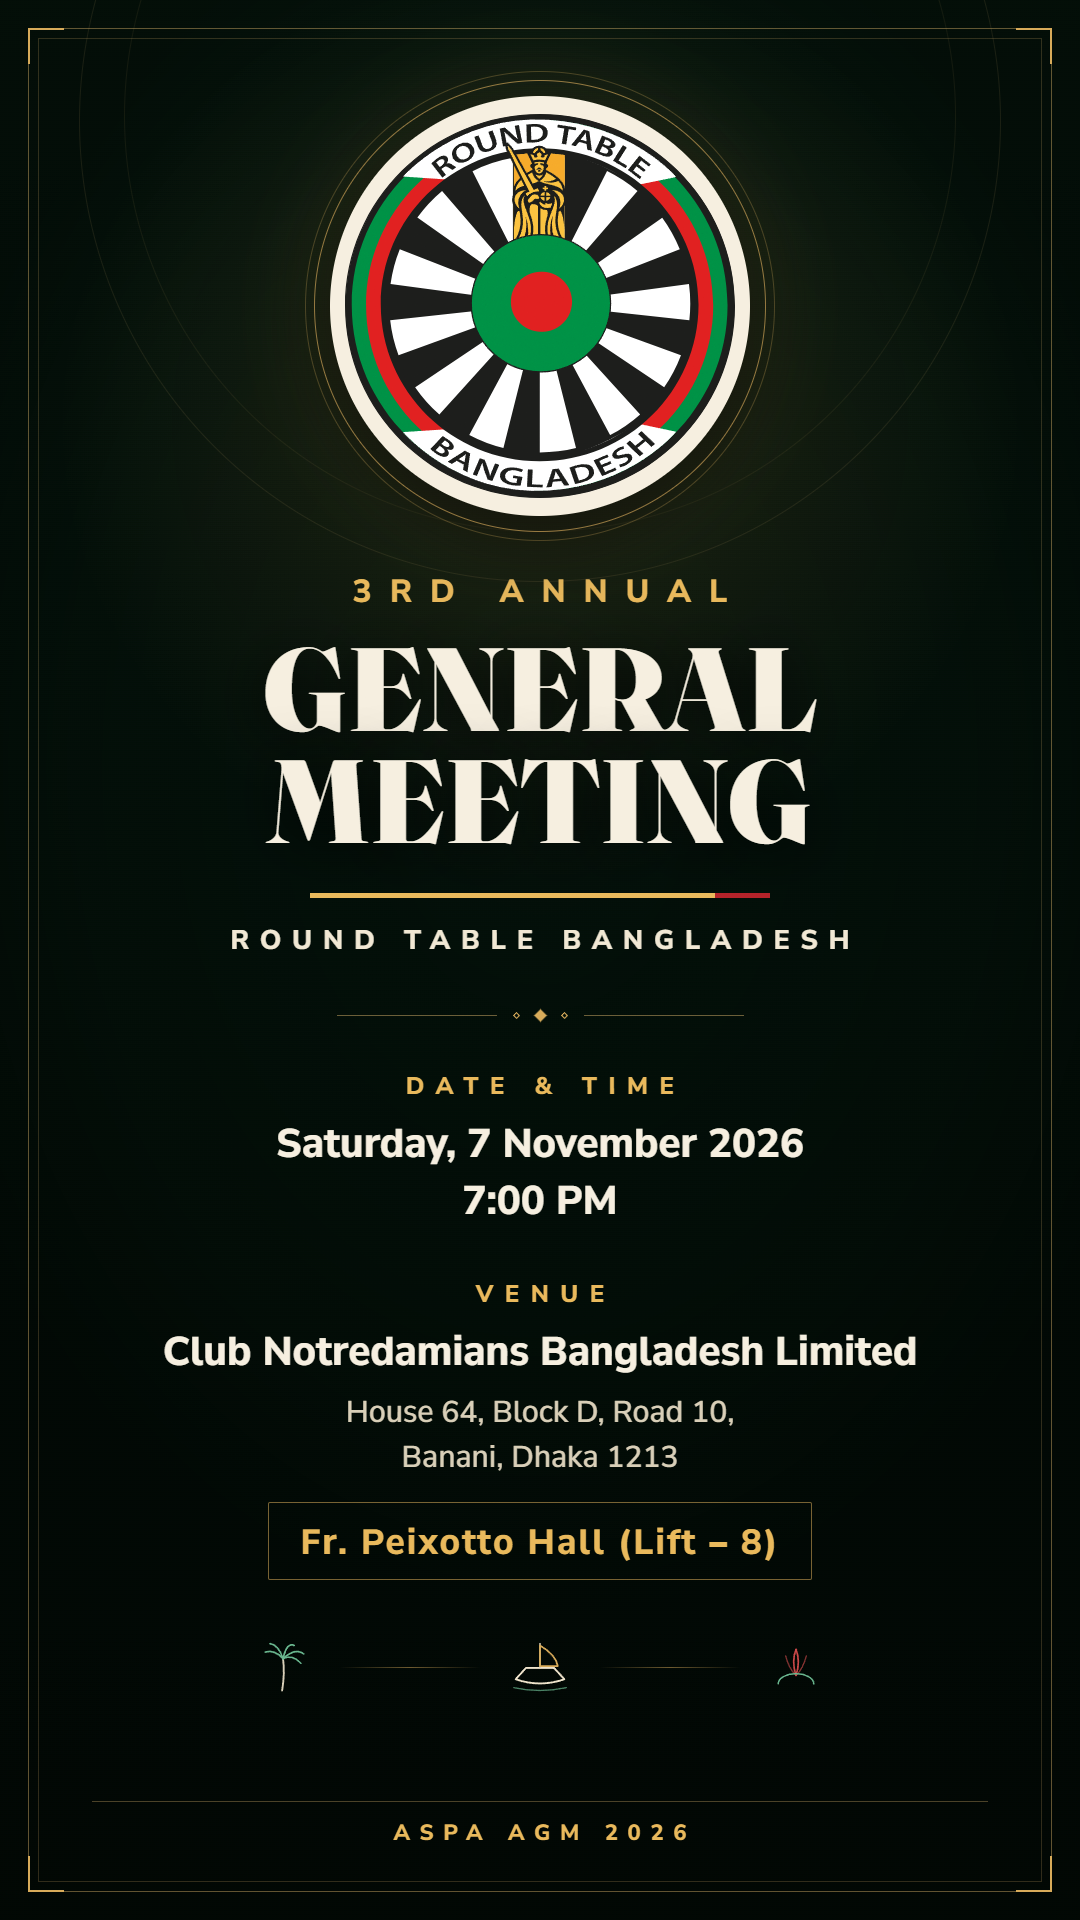
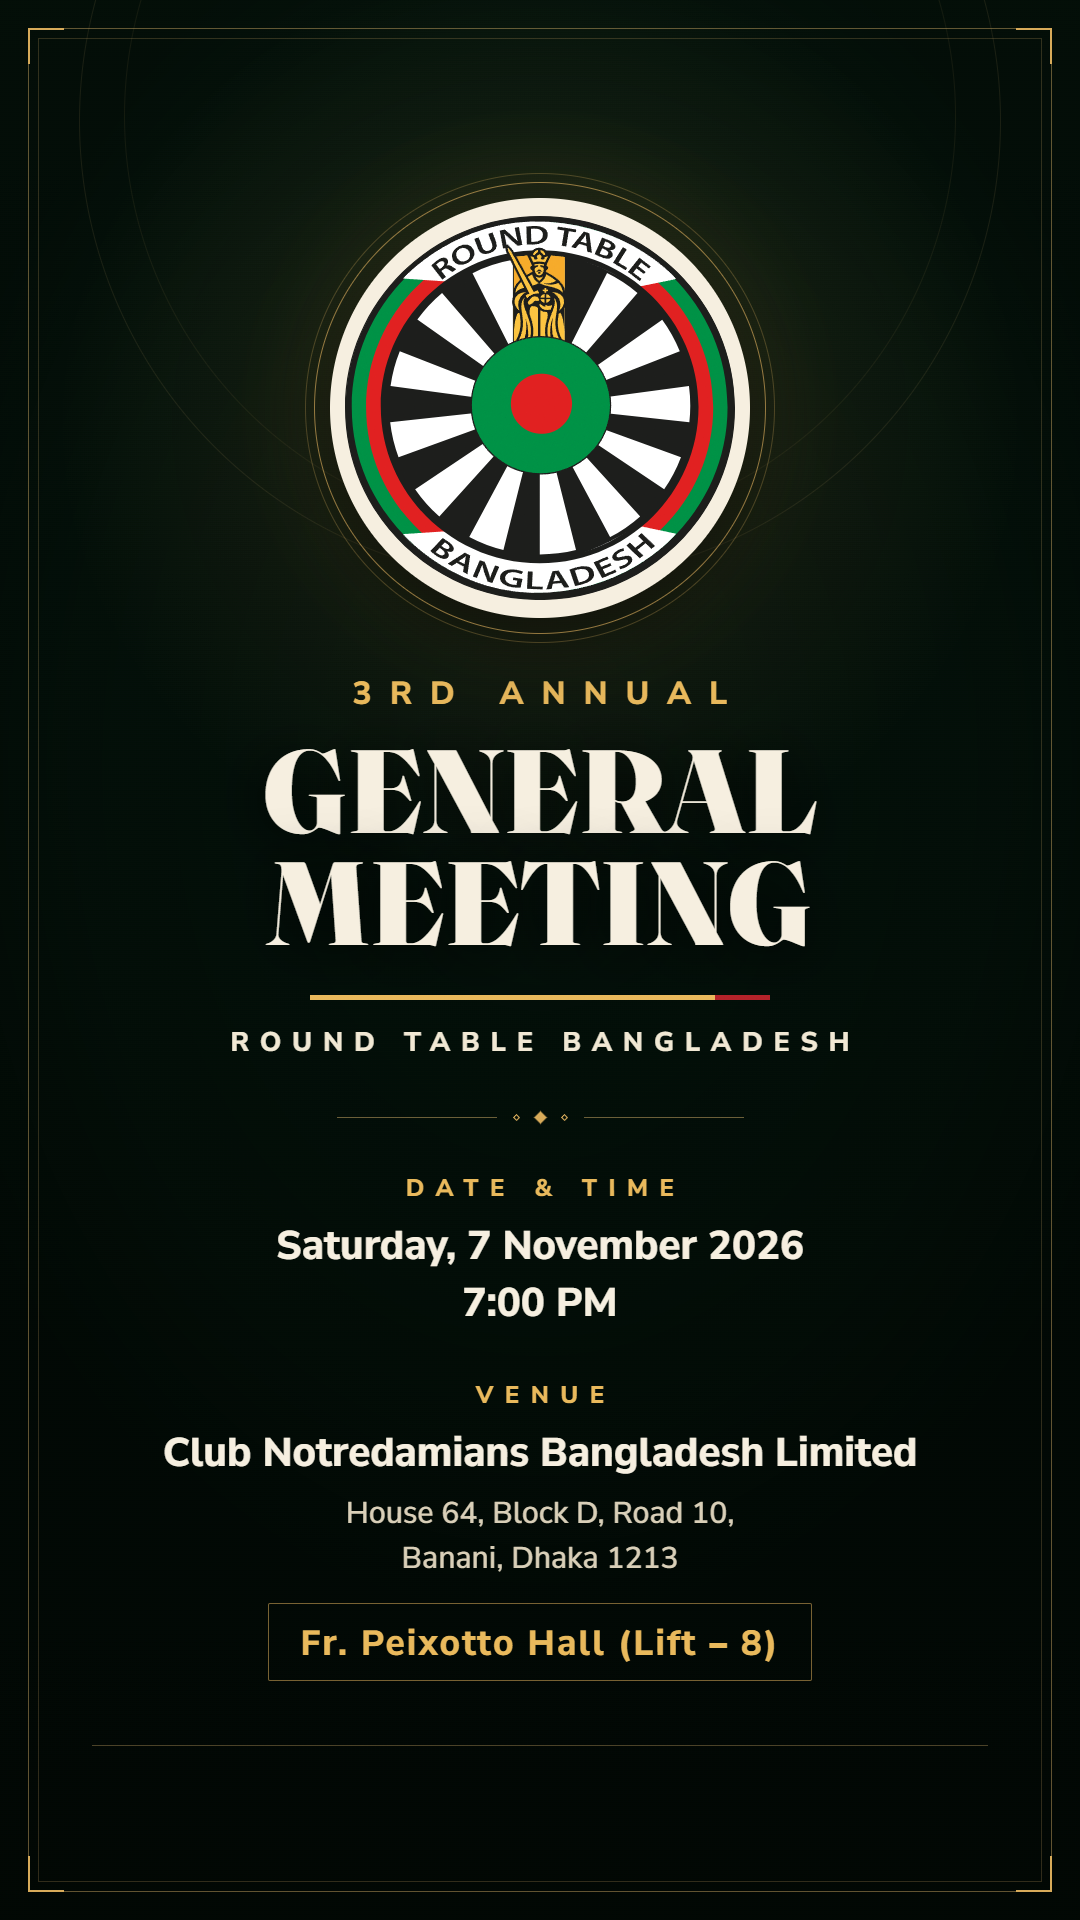
Signage card: remove motif band and footer mark, center composition

diff --git a/invitation-signage-portrait.html b/invitation-signage-portrait.html
@@ -25,7 +25,7 @@
   .c-tr{top:28px;right:28px;border-left:none;border-bottom:none}
   .c-bl{bottom:28px;left:28px;border-right:none;border-top:none}
   .c-br{bottom:28px;right:28px;border-left:none;border-top:none}
-  .inner{position:relative;z-index:2;width:100%;height:100%;display:flex;flex-direction:column;align-items:center;text-align:center;
+  .inner{position:relative;z-index:2;width:100%;height:100%;display:flex;flex-direction:column;align-items:center;justify-content:center;text-align:center;
     padding:96px 92px 72px;font-family:'Nunito Sans',system-ui,sans-serif}
   .logo-medal{width:420px;height:420px;border-radius:50%;background:#F6EFE0;display:flex;align-items:center;justify-content:center;
     box-shadow:0 22px 64px rgba(0,0,0,.6), 0 0 90px rgba(233,185,92,.15);position:relative}
@@ -49,12 +49,8 @@
   .venue-addr{margin-top:10px;font-weight:600;font-size:30px;color:#D9CFB8;line-height:1.5}
   .venue-hall{margin-top:22px;display:inline-block;padding:13px 32px;border:1px solid rgba(216,171,90,.55);border-radius:2px}
   .venue-hall span{font-weight:800;font-size:35px;color:#E9B95C;letter-spacing:.06em}
-  .vign{margin-top:58px;display:flex;align-items:center;gap:26px}
-  .vign .stitch{width:140px;height:1px;background:linear-gradient(90deg,rgba(216,171,90,0),rgba(216,171,90,.5) 50%,rgba(216,171,90,0))}
-  .vign svg{display:block}
-  .foot-rule{margin-top:auto;padding-top:30px;width:100%}
+  .foot-rule{margin-top:64px;width:100%}
   .foot-rule .fl{height:1px;background:rgba(212,175,105,.35);width:100%}
-  .foot-mark{margin-top:16px;font-weight:800;letter-spacing:.44em;text-indent:.44em;font-size:22px;color:#E9B95C}
 </style>
 </head>
 <body>
@@ -83,37 +79,12 @@
     <div class="venue-addr">House 64, Block D, Road 10,<br>Banani, Dhaka 1213</div>
     <div class="venue-hall"><span>Fr. Peixotto Hall (Lift &ndash; 8)</span></div>
 
-    <div class="vign">
-      <svg width="60" height="60" viewBox="0 0 64 64" fill="none">
-        <path d="M30 56 Q33 38 31 22" stroke="#D8CFB8" stroke-width="2" stroke-linecap="round"/>
-        <path d="M31 22 Q22 12 12 15" stroke="#69B68E" stroke-width="1.8" stroke-linecap="round"/>
-        <path d="M31 22 Q26 7 17 6" stroke="#69B68E" stroke-width="1.8" stroke-linecap="round"/>
-        <path d="M31 22 Q35 4 43 8" stroke="#69B68E" stroke-width="1.8" stroke-linecap="round"/>
-        <path d="M31 22 Q44 10 53 17" stroke="#69B68E" stroke-width="1.8" stroke-linecap="round"/>
-        <path d="M31 22 Q41 17 50 27" stroke="#69B68E" stroke-width="1.6" stroke-linecap="round"/>
-      </svg>
-      <div class="stitch"></div>
-      <svg width="68" height="60" viewBox="0 0 68 64" fill="none">
-        <path d="M8 44 Q34 53 60 44 L49 32 L19 32 Z" stroke="#EFE4CC" stroke-width="2" stroke-linejoin="round"/>
-        <path d="M34 32 V6" stroke="#D8CFB8" stroke-width="1.6" stroke-linecap="round"/>
-        <path d="M34 8 Q51 18 53 30 L34 30 Z" stroke="#D8AB5A" stroke-width="1.8" stroke-linejoin="round"/>
-        <path d="M6 53 Q34 59 62 53" stroke="#69B68E" stroke-width="1.4" stroke-linecap="round" opacity=".7"/>
-      </svg>
-      <div class="stitch"></div>
-      <svg width="60" height="60" viewBox="0 0 64 64" fill="none">
-        <path d="M32 12 Q27 25 32 40 Q37 25 32 12 Z" stroke="#C94848" stroke-width="1.8" stroke-linejoin="round"/>
-        <path d="M21 19 Q24 32 32 40" stroke="#C94848" stroke-width="1.4" stroke-linecap="round" opacity=".65"/>
-        <path d="M43 19 Q40 32 32 40" stroke="#C94848" stroke-width="1.4" stroke-linecap="round" opacity=".65"/>
-        <path d="M13 49 A19 11 0 0 1 51 49" stroke="#69B68E" stroke-width="1.6" stroke-linecap="round"/>
-      </svg>
-    </div>
-
     <div class="foot-rule"><div class="fl"></div></div>
-    <div class="foot-mark">ASPA&nbsp;AGM&nbsp;2026</div>
   </div>
   <div class="grain"></div>
 </div>
 </body>
 </html>
+
 
 
